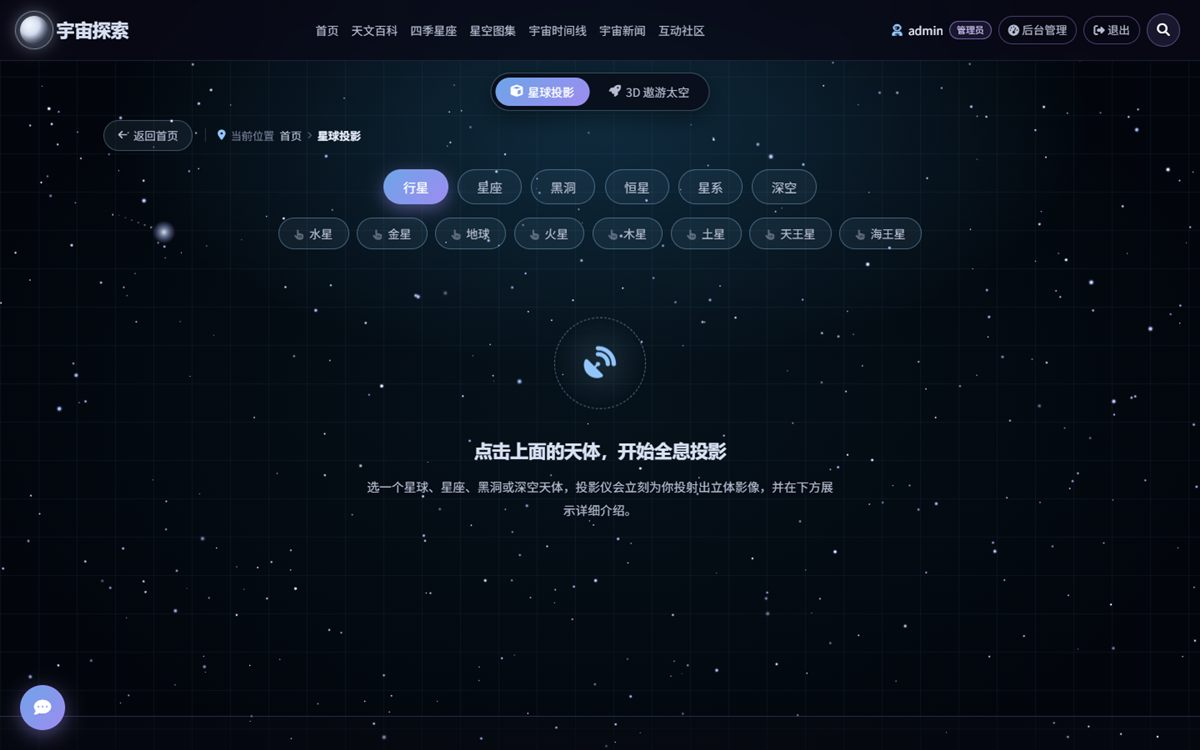
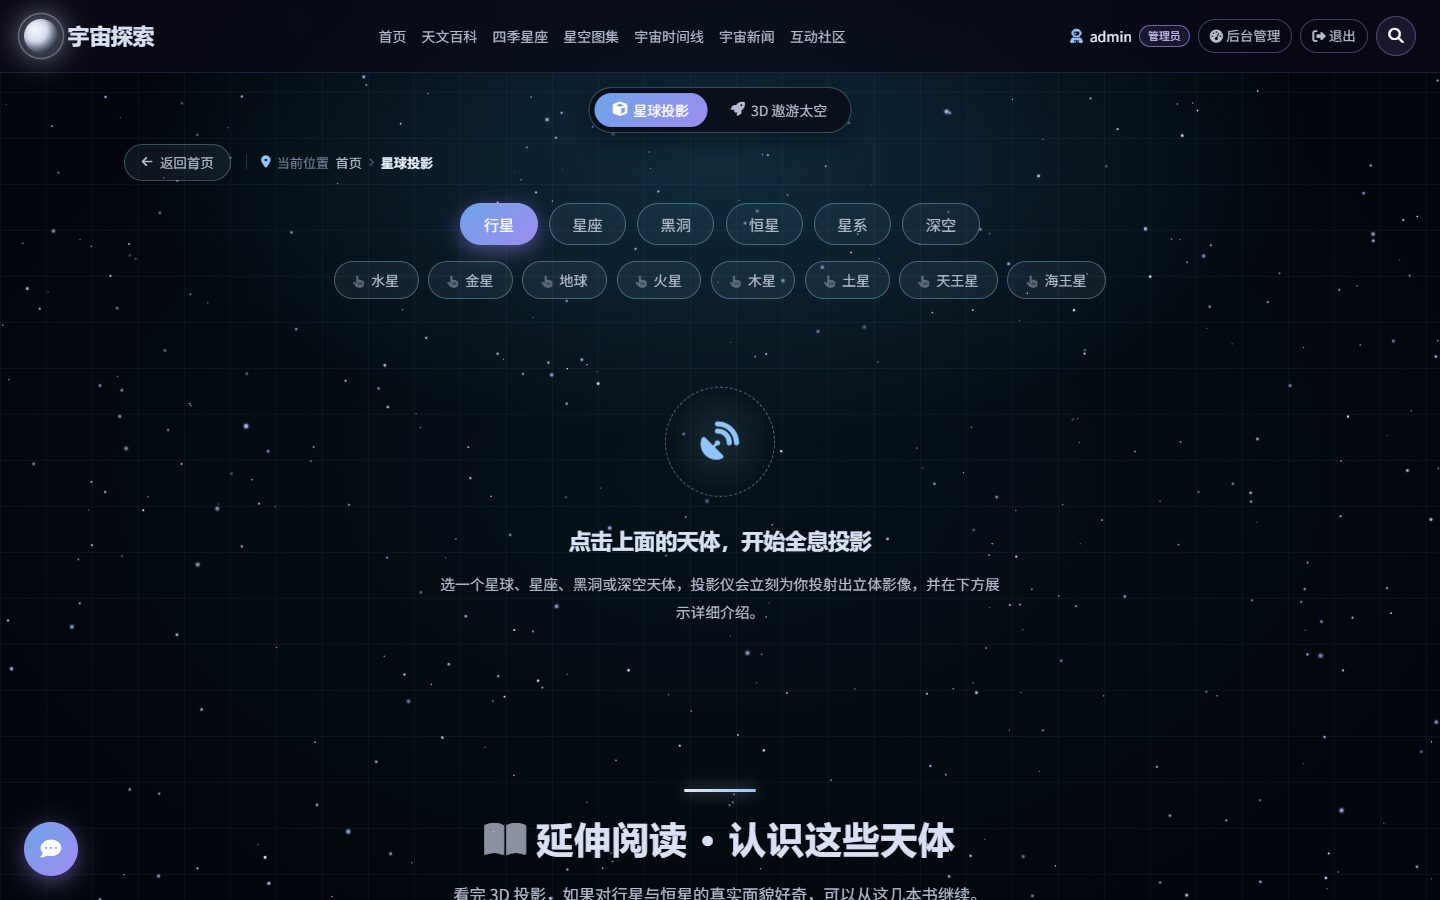
docs: 刷新 README 展示截图并新增截图生成脚本
- docs/screenshots 8 张全部按新版界面重新生成（含新页头、书单、时间线标尺等）
- 新增 tools/gen-readme-shots.js：一键登录并批量截图，便于后续更新
- 截图合计约 820 KB，均为 1200px 宽 JPEG

diff --git a/tools/gen-readme-shots.js b/tools/gen-readme-shots.js
@@ -1,0 +1,54 @@
+// 生成 README 展示截图（docs/screenshots）：新版界面，1200px 宽 JPEG
+const fs = require('fs');
+const path = require('path');
+const puppeteer = require('puppeteer-core');
+
+const EDGE = 'C:\\Program Files (x86)\\Microsoft\\Edge\\Application\\msedge.exe';
+const BASE = process.env.BASE || 'http://127.0.0.1:3000';
+const OUT = path.resolve(__dirname, '..', 'docs/screenshots');
+const W = 1440, H = 900, QUALITY = 82;
+
+const sleep = ms => new Promise(r => setTimeout(r, ms));
+
+const SHOTS = [
+    ['01-home', '/', () => window.scrollTo(0, 0)],
+    ['02-encyclopedia', '/encyclopedia', () => window.scrollTo(0, 0)],
+    ['03-community', '/community?tab=quiz', () => window.scrollTo(0, 0)],
+    ['04-news', '/news', () => window.scrollTo(0, 0)],
+    ['05-gallery', '/gallery', () => window.scrollTo(0, 0)],
+    ['06-timeline', '/timeline', () => window.scrollTo(0, 0)],
+    ['07-planet-show', '/planet-show', null],
+    ['08-constellations', '/constellations', () => window.scrollTo(0, 0)]
+];
+
+(async () => {
+    if (!fs.existsSync(OUT)) fs.mkdirSync(OUT, { recursive: true });
+
+    const b = await puppeteer.launch({ executablePath: EDGE, headless: 'new', args: ['--no-sandbox'] });
+    const p = await b.newPage();
+    await p.setViewport({ width: W, height: H, deviceScaleFactor: 1 });
+
+    // 登录管理员，让页头状态完整
+    await p.goto(BASE + '/login', { waitUntil: 'networkidle2' });
+    await p.type('input[autocomplete="username"]', 'admin');
+    await p.type('input[autocomplete="current-password"]', 'admin123');
+    await p.click('button[type="submit"]');
+    await sleep(2600);
+
+    for (const [name, url, scroll] of SHOTS) {
+        await p.goto(BASE + url, { waitUntil: 'networkidle2' });
+        await sleep(2200);
+        if (scroll) await p.evaluate(scroll);
+        await sleep(900);
+        const file = path.join(OUT, name + '.jpg');
+        await p.screenshot({ path: file, type: 'jpeg', quality: QUALITY });
+        const kb = Math.round(fs.statSync(file).size / 1024);
+        console.log('  ✓ ' + name + '.jpg  ' + kb + ' KB');
+    }
+
+    await b.close();
+
+    const total = fs.readdirSync(OUT).filter(f => f.endsWith('.jpg'))
+        .reduce((s, f) => s + fs.statSync(path.join(OUT, f)).size, 0);
+    console.log('\n截图已生成到 docs/screenshots，合计 ' + Math.round(total / 1024) + ' KB');
+})().catch(e => { console.error('截图失败:', e.message); process.exit(1); });
